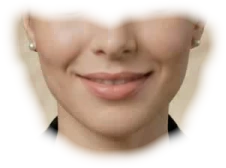
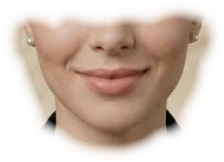
Lara lip shapes: subtle, relaxed speech (no grin, little teeth); clip version 17

diff --git a/public/chat.html b/public/chat.html
@@ -137,7 +137,7 @@ label.ck{display:flex;gap:8px;font-size:13px;align-items:flex-start}label.ck inp
   <textarea id="rc" dir="auto" style="height:60px"></textarea>
   <div style="display:flex;gap:8px"><button class="go" id="rno" type="button" style="flex:1;padding:12px;background:var(--line);color:var(--ink)"></button><button class="go" id="rgo" type="button" style="flex:2;padding:12px" disabled></button></div>
 </div></div>
-<script src="lara-live.js?v=16" defer></script>
+<script src="lara-live.js?v=17" defer></script>
 <script>
 (function () {
   var API = "https://iyubegbevtjcvtuubpaq.supabase.co/functions/v1/api";

diff --git a/public/lara-live.js b/public/lara-live.js
@@ -5,7 +5,7 @@
    Cost guards: max call length (server token expires too), 20 s silence -> "are you still there?", 12 s more -> end, tab hidden -> end. */
 (function () {
   "use strict";
-  var CV = "16";   // clip version: bump when the clips change, so no browser keeps playing old ones (21 Nov 2026)
+  var CV = "17";   // clip version: bump when the clips change, so no browser keeps playing old ones (21 Nov 2026)
   var CLIPS = ["idle", "listen"];   // 21 Nov 2026: talk1/2 = Gemini Pro videos of Lara, idle/listen = same portrait
   var cache = {}, loading = null;
   function preload(base) {
